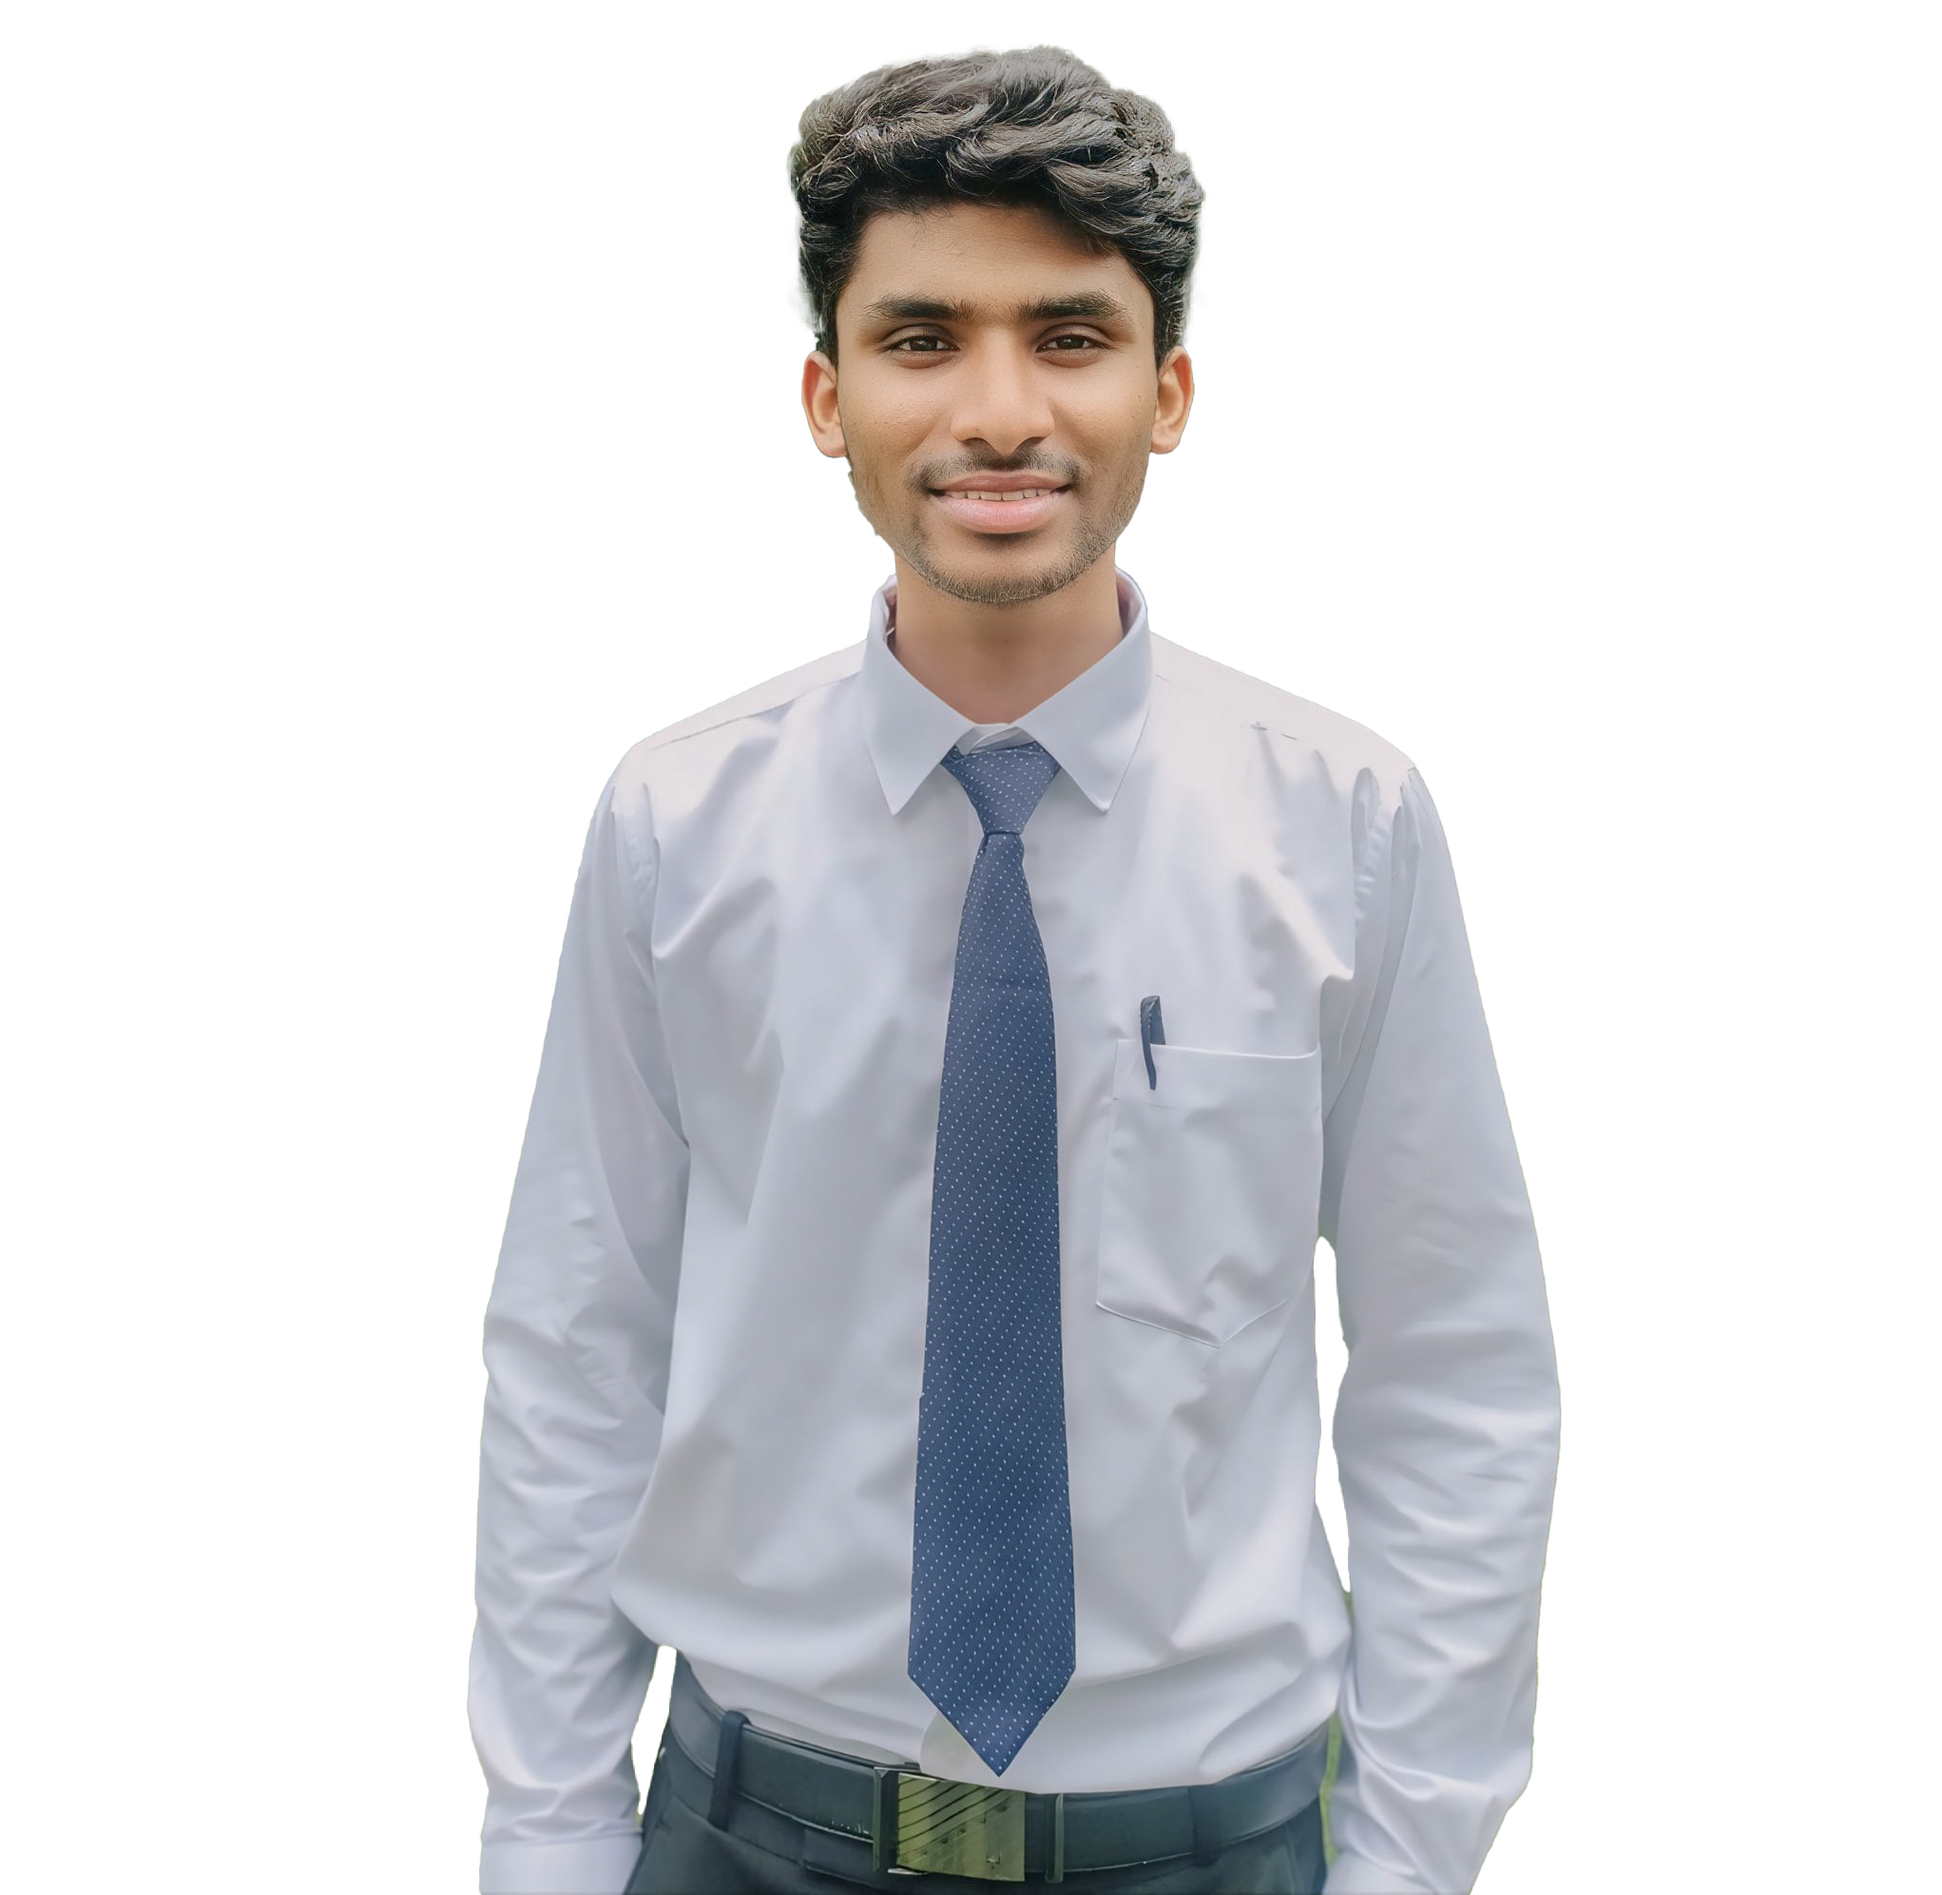
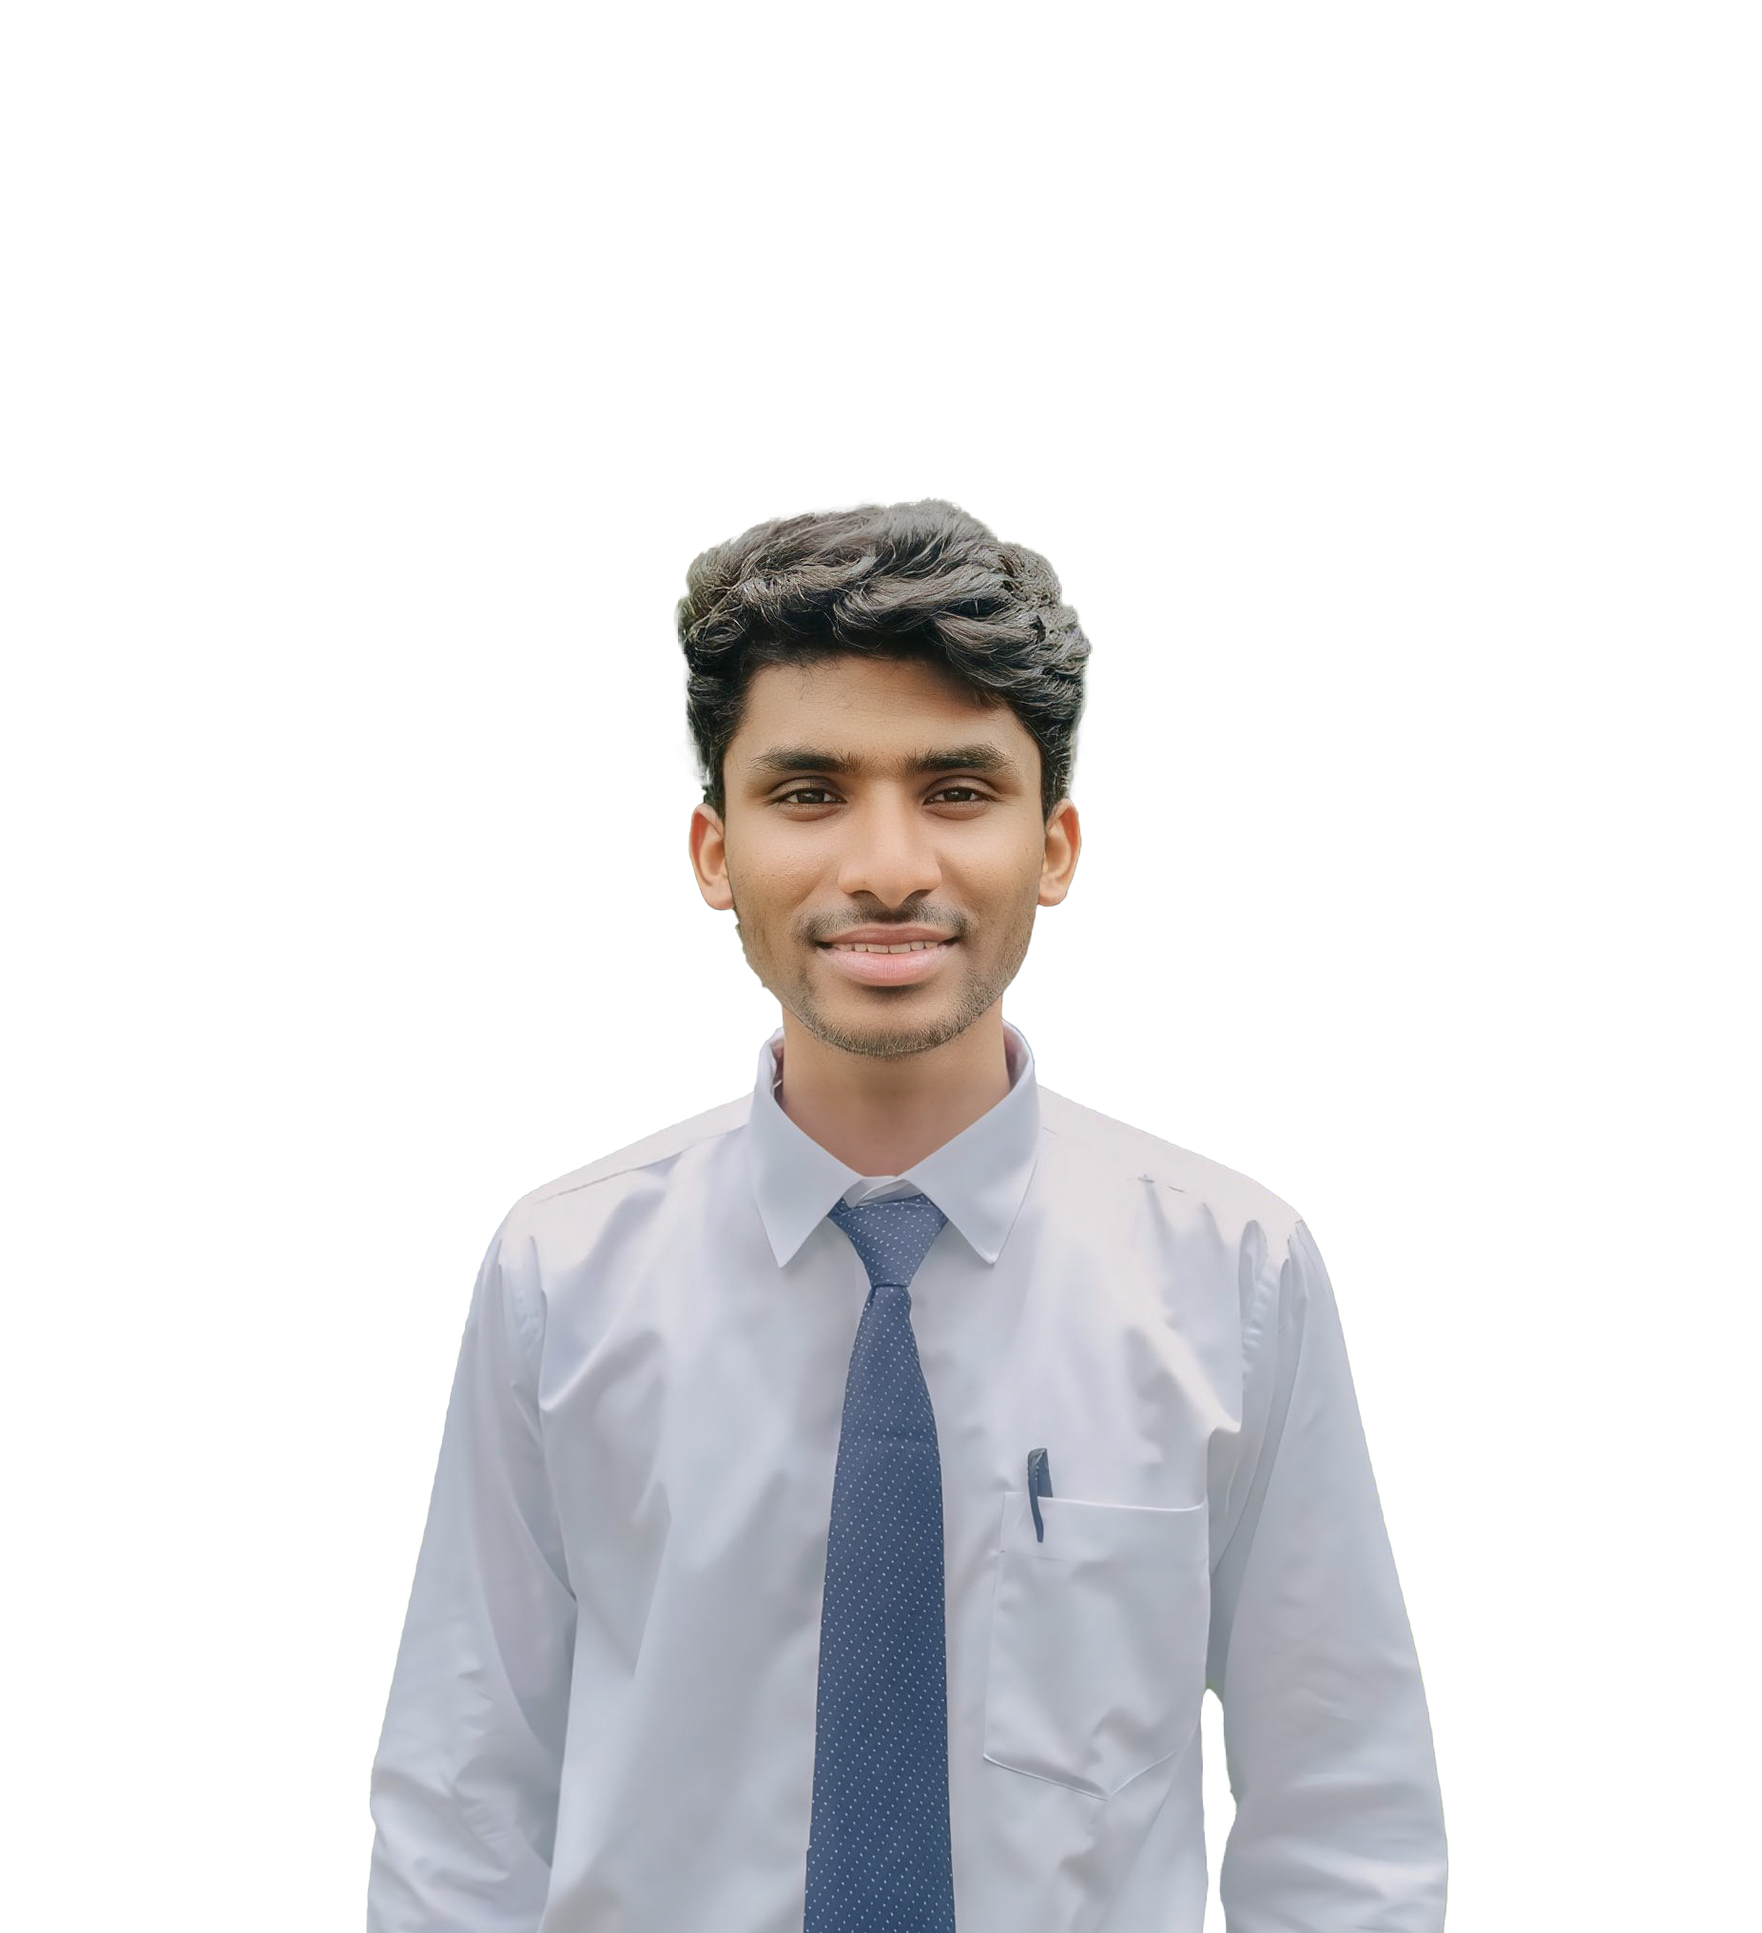
new updates

Changed region(s): [[0.1846, 0.0, 0.8305, 1.0]]

diff --git a/index.html b/index.html
@@ -46,7 +46,7 @@
                 </div>
             </div>
             <div class="profilePic">
-                <img src="Images/my_png.png" alt="">
+                <img src="Images/my_pngq1.png" alt="">
             </div>
         </div>
     </section>
@@ -158,10 +158,21 @@
         </div>
         <div class="projects">
             <div class="graphic">
-                <img src="Images/Graphic/sahil.jpg" alt="">
-                <img src="Images/Graphic/anniversary.jpg" alt="">
-                <img src="Images/Graphic/niddu copy.jpg" alt="">
-                <img src="Images/Graphic/Niddu.jpg" alt="">
+                <div class="graphic-items" id="flower">
+                    <a href="https://github.com/rahulkoduri96/Fresh-Flowers-Website"><img src="Images/Graphic/Project-flower.jpg" alt=""></a>
+                    <h3>Fresh Flowers</h3>
+                    <p>A E-Commerce Website</p>
+                </div>
+                <div  class="graphic-items" id="flower">
+                    <a href="https://github.com/rahulkoduri96/Image-Search-Engine"><img src="Images/Graphic/Project-Image.jpg" alt=""></a>
+                    <h3>Image Search Engine</h3>
+                    <p>A Pixels Api Search Engine Website</p>
+                </div>
+                <div class="graphic-items" id="flower">
+                    <a href="https://github.com/amitshou13/Hackathon-UI"><img src="Images/Graphic/Project-Purpose.jpg" alt=""></a>
+                    <h3>Purpose Coin</h3>
+                    <p>A Fintech Website</p>
+                </div>
             </div>
         </div>
     </section>

diff --git a/style.css b/style.css
@@ -325,18 +325,28 @@ nav{
     display: flex;
     justify-content: center;
     align-items: center;
-    gap: 3rem;
+    gap: 4rem;
 }
-.portfolio .graphic img{
+.portfolio .graphic .graphic-items img{
     height: 20rem;
-    border-radius: .2rem;
+    border: 1px solid #e9e7ee;
+    border-radius: 1rem;
+    padding: 0.6rem;
+    margin-bottom: 10px;
+    box-shadow: 0 0 30px rgba(0, 0, 0, 0.1);
+    cursor: pointer;
 }
 
-.portfolio .graphic img:hover{
-    height: 20.8rem;
+.graphic-items{
+    text-align: center;
+    transform: scale(1);
 }
 
-#contact {
+.graphic-items:hover{
+    transform: scale(1.02);
+}
+
+#contact{
     display: flex;
     justify-content: center;
     flex-direction: column;
@@ -408,6 +418,10 @@ nav{
 .nav-links-container .menu a{
     text-decoration: none;
     font-weight: 500;
+}
+
+.nav-links-container .menu a:hover{
+    font-weight: 800;
 }
 
 /* FOOTER */
